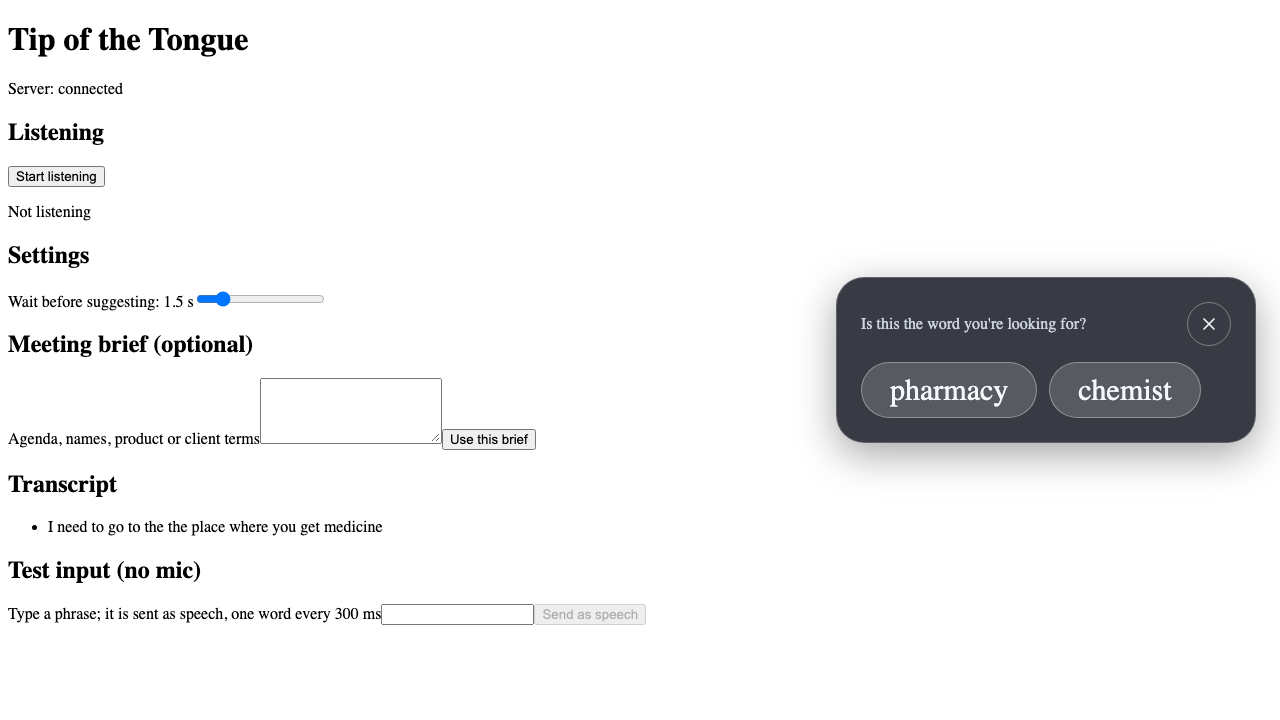
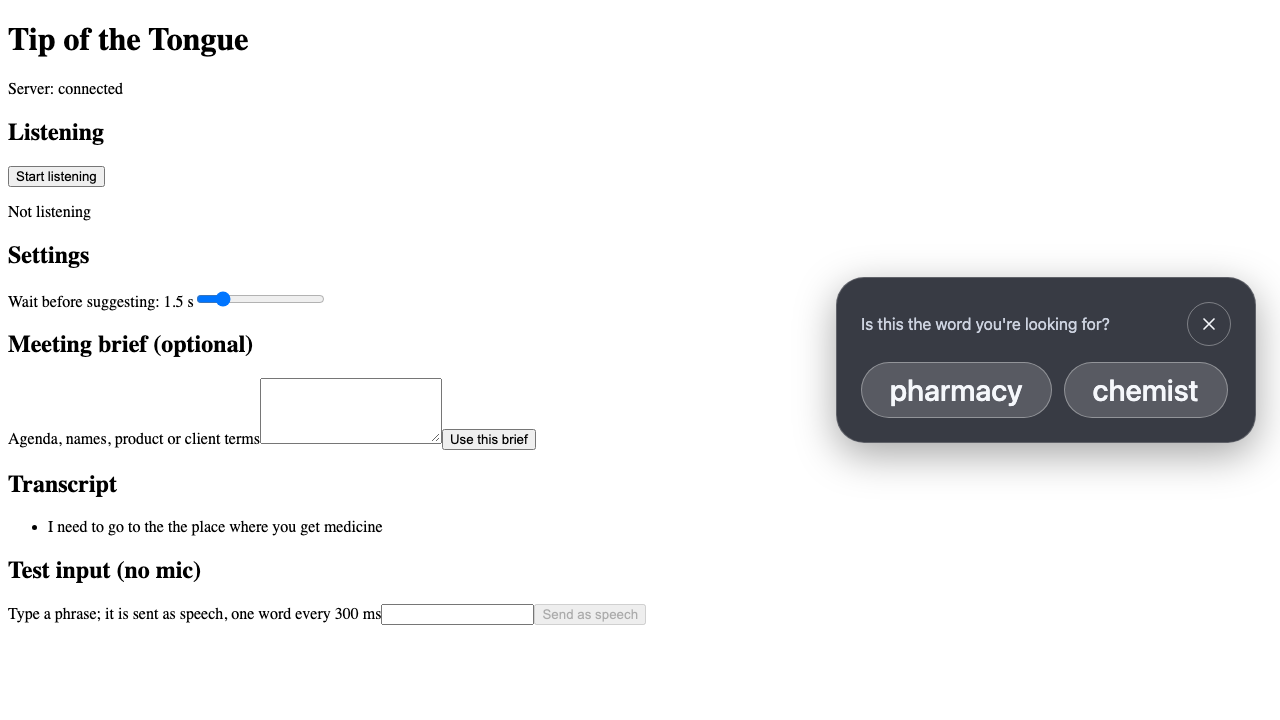
feat: guess.picked event for clicks, system sans font in the pop-up

Changed region(s): [[0.6875, 0.4889, 0.9688, 0.5806], [0.6562, 0.4278, 0.875, 0.4583]]

diff --git a/server/src/session.test.ts b/server/src/session.test.ts
@@ -94,6 +94,89 @@ describe('session pipeline', () => {
     session.close();
   });
 
+  describe('guess.picked', () => {
+    // Speaks the demo stall and waits for the offer.
+    async function offered() {
+      const ctx = setup();
+      ctx.say('I need to go to the the place where you get medicine');
+      await vi.advanceTimersByTimeAsync(2000);
+      const o = ctx.events.find((e) => e.type === 'guess.offered');
+      if (o?.type !== 'guess.offered') throw new Error('no offer');
+      return { ...ctx, id: o.id };
+    }
+    const accepted = (events: ServerEvent[]) => events.filter((e) => e.type === 'guess.accepted');
+
+    it('counts a click like a spoken acceptance', async () => {
+      const { session, events, id } = await offered();
+      await vi.advanceTimersByTimeAsync(400);
+      session.handle({ type: 'guess.picked', id, word: 'chemist' });
+      const [a] = accepted(events);
+      expect(a).toMatchObject({ type: 'guess.accepted', id, word: 'chemist' });
+      expect(a?.type === 'guess.accepted' && a.afterMs).toBeGreaterThanOrEqual(400);
+      // The offer is closed: nothing else follows for it.
+      await vi.advanceTimersByTimeAsync(20_000);
+      expect(events.map((e) => e.type)).not.toContain('guess.expired');
+      session.close();
+    });
+
+    it('matches the word the way speech does (case, plural) and reports the offered spelling', async () => {
+      const { session, events, id } = await offered();
+      session.handle({ type: 'guess.picked', id, word: ' Pharmacies ' });
+      expect(accepted(events)).toMatchObject([{ word: 'pharmacy' }]);
+      session.close();
+    });
+
+    it('ignores a stale id', async () => {
+      const { session, events } = await offered();
+      session.handle({ type: 'guess.picked', id: 'not-the-offer', word: 'pharmacy' });
+      expect(accepted(events)).toEqual([]);
+      session.close();
+    });
+
+    it('ignores a word that was not offered, and the offer stays open', async () => {
+      const { session, say, events, id } = await offered();
+      session.handle({ type: 'guess.picked', id, word: 'hospital' });
+      session.handle({ type: 'guess.picked', id, word: 'pharmacy chemist' });
+      expect(accepted(events)).toEqual([]);
+      say('pharmacy');
+      await vi.advanceTimersByTimeAsync(300);
+      expect(accepted(events)).toHaveLength(1);
+      session.close();
+    });
+
+    it('ignores a click after the offer expired', async () => {
+      const { session, events, id } = await offered();
+      await vi.advanceTimersByTimeAsync(11_000);
+      expect(events.map((e) => e.type)).toContain('guess.expired');
+      session.handle({ type: 'guess.picked', id, word: 'pharmacy' });
+      expect(accepted(events)).toEqual([]);
+      session.close();
+    });
+
+    it('ignores a click in the moment between the window ending and the next poll', async () => {
+      const { session, events, id } = await offered();
+      vi.setSystemTime(Date.now() + 10_050);
+      session.handle({ type: 'guess.picked', id, word: 'pharmacy' });
+      expect(accepted(events)).toEqual([]);
+      session.close();
+    });
+
+    it('accepts once: a second click does nothing', async () => {
+      const { session, events, id } = await offered();
+      session.handle({ type: 'guess.picked', id, word: 'pharmacy' });
+      session.handle({ type: 'guess.picked', id, word: 'chemist' });
+      expect(accepted(events)).toHaveLength(1);
+      session.close();
+    });
+
+    it('ignores a click when no offer is open', () => {
+      const { session, events } = setup();
+      session.handle({ type: 'guess.picked', id: 'x', word: 'pharmacy' });
+      expect(events).toEqual([]);
+      session.close();
+    });
+  });
+
   it('stays silent on fluent speech', async () => {
     const { session, say, events } = setup();
     say('we shipped the new release on Tuesday and the customers liked it.');

diff --git a/server/src/session.ts b/server/src/session.ts
@@ -6,6 +6,7 @@ import type { Profile } from './guess/profile.js';
 import type { GuessResult, Guesser } from './guess/types.js';
 import { decideOffer } from './gate/gate.js';
 import { checkAcceptance } from './accept/accept.js';
+import { normalizePhrase } from './gate/normalize.js';
 
 export interface SessionOptions {
   guess: Guesser;
@@ -77,8 +78,28 @@ export function createSession(send: (event: ServerEvent) => void, opts: SessionO
     } else {
       return;
     }
+    closeOffer();
+  }
+
+  function closeOffer() {
     offer = undefined;
     handledUpToMs = buffer.words().at(-1)?.endMs ?? handledUpToMs;
+  }
+
+  // The user clicked a word. Only the open offer, one of its own words, inside the accept
+  // window counts; anything else (stale id, unknown word, late click) is ignored.
+  function pick(id: string, word: string) {
+    if (!offer || offer.id !== id || now() - offer.offeredAtMs > opts.acceptWindowMs) return;
+    const key = normalizePhrase(word).join(' ');
+    const chosen = offer.candidates.find((c) => normalizePhrase(c.word).join(' ') === key);
+    if (!chosen) return;
+    send({
+      type: 'guess.accepted',
+      id,
+      word: chosen.word,
+      afterMs: now() - offer.offeredAtMs,
+    });
+    closeOffer();
   }
 
   function noteGuess(failed: boolean) {
@@ -204,6 +225,7 @@ export function createSession(send: (event: ServerEvent) => void, opts: SessionO
     handle(event: ClientEvent) {
       if (event.type === 'session.brief') brief = event.text.trim() || undefined;
       else if (event.type === 'session.settings') pauseMs = event.pauseMs;
+      else if (event.type === 'guess.picked') pick(event.id, event.word);
       else if (event.type === 'transcript.partial') buffer.applyPartial(event.words);
       else buffer.applyFinal(event.words);
       check();

diff --git a/web/src/offer/Offer.tsx b/web/src/offer/Offer.tsx
@@ -7,20 +7,28 @@ const ACCEPTED_SHOWN_MS = 1500;
 interface Props {
   offer: OfferState | null;
   onClear: () => void;
+  // The user clicked one of the words.
+  onPick: (id: string, word: string) => void;
 }
 
 // The live region stays mounted so screen readers announce the offer when it appears.
-// Picking a word here only changes what the user sees; the server still learns about
-// acceptance from the user saying the word.
-export function Offer({ offer, onClear }: Props) {
+export function Offer({ offer, onClear, onPick }: Props) {
   return (
     <aside aria-live="polite" aria-label="Word suggestions">
-      {offer && <Card key={offer.id} offer={offer} onClear={onClear} />}
+      {offer && <Card key={offer.id} offer={offer} onClear={onClear} onPick={onPick} />}
     </aside>
   );
 }
 
-function Card({ offer, onClear }: { offer: OfferState; onClear: () => void }) {
+function Card({
+  offer,
+  onClear,
+  onPick,
+}: {
+  offer: OfferState;
+  onClear: () => void;
+  onPick: Props['onPick'];
+}) {
   const [picked, setPicked] = useState<string>();
   const accepted = offer.acceptedWord ?? picked;
 
@@ -64,7 +72,14 @@ function Card({ offer, onClear }: { offer: OfferState; onClear: () => void }) {
       <ul className="offer-words">
         {offer.candidates.map((c) => (
           <li key={c.word}>
-            <button type="button" className="offer-word" onClick={() => setPicked(c.word)}>
+            <button
+              type="button"
+              className="offer-word"
+              onClick={() => {
+                setPicked(c.word);
+                onPick(offer.id, c.word);
+              }}
+            >
               {c.word}
             </button>
           </li>

diff --git a/server/src/events.test.ts b/server/src/events.test.ts
@@ -15,3 +15,16 @@ describe('session.settings', () => {
     );
   });
 });
+
+describe('guess.picked', () => {
+  const picked = (value: unknown) => ClientEventSchema.safeParse(value).success;
+
+  it('needs an id and a word of sensible size', () => {
+    expect(picked({ type: 'guess.picked', id: 'abc', word: 'pharmacy' })).toBe(true);
+    expect(picked({ type: 'guess.picked', id: 'abc', word: '' })).toBe(false);
+    expect(picked({ type: 'guess.picked', id: 'a'.repeat(65), word: 'x' })).toBe(false);
+    expect(picked({ type: 'guess.picked', id: 'abc', word: 'x'.repeat(101) })).toBe(false);
+    expect(picked({ type: 'guess.picked', id: 5, word: 'x' })).toBe(false);
+    expect(picked({ type: 'guess.picked', word: 'x' })).toBe(false);
+  });
+});

diff --git a/server/src/events.ts b/server/src/events.ts
@@ -26,6 +26,12 @@ export const ClientEventSchema = z.discriminatedUnion('type', [
   }),
   // Optional meeting brief: agenda, names, terms. Plain text.
   z.object({ type: z.literal('session.brief'), text: z.string().max(5000) }),
+  // The user clicked a suggested word. Counts like saying it.
+  z.object({
+    type: z.literal('guess.picked'),
+    id: z.string().max(64),
+    word: z.string().min(1).max(100),
+  }),
   // How long the user pauses before we look for a word (slower speakers need longer), in ms.
   z.object({ type: z.literal('session.settings'), pauseMs: z.number().min(800).max(5000) }),
 ]);

diff --git a/server/src/hardening.test.ts b/server/src/hardening.test.ts
@@ -100,6 +100,9 @@ describe('bad input never crashes the server', () => {
       '{"type":"transcript.final","words":[{"text":"a","startMs":1e999,"endMs":1}]}',
       '{"type":"transcript.final","words":[{"text":"","startMs":0,"endMs":1}]}',
       '{"type":"session.brief","text":5}',
+      '{"type":"guess.picked"}',
+      '{"type":"guess.picked","id":1,"word":[]}',
+      '{"type":"guess.picked","id":"nope","word":"pharmacy"}',
       '{"__proto__":{"polluted":true},"type":"session.brief","text":"x"}',
       Buffer.from([0xff, 0xfe, 0x00]),
     ];

diff --git a/web/src/offer/offer.css b/web/src/offer/offer.css
@@ -18,6 +18,13 @@
     'words words';
   gap: 16px 12px;
   align-items: start;
+  font-family:
+    system-ui,
+    -apple-system,
+    'Segoe UI',
+    Roboto,
+    sans-serif;
+  font-variant-numeric: tabular-nums;
   color: var(--ink);
   background: rgb(18 22 32 / 0.84);
   border: 1px solid rgb(255 255 255 / 0.2);
@@ -73,6 +80,7 @@
   padding: 8px 28px;
   font: inherit;
   font-size: 1.875rem; /* 30px */
+  font-weight: 500;
   line-height: 1.2;
   color: var(--ink);
   background: rgb(255 255 255 / 0.16);

diff --git a/web/src/App.tsx b/web/src/App.tsx
@@ -143,7 +143,11 @@ export function App() {
         {guesserDown ? 'Word suggestions are unavailable right now; listening continues.' : ''}
       </p>
 
-      <Offer offer={offer} onClear={clearOffer} />
+      <Offer
+        offer={offer}
+        onClear={clearOffer}
+        onPick={(id, word) => send({ type: 'guess.picked', id, word })}
+      />
 
       <section aria-labelledby="settings-h">
         <h2 id="settings-h">Settings</h2>

diff --git a/docs/ARCHITECTURE.md b/docs/ARCHITECTURE.md
@@ -21,6 +21,7 @@ Defined once in `server/src/events.ts`. Times are epoch ms.
 | `transcript.partial` / `transcript.final` | web → server | words with start/end ms (browser STT)                  |
 | `session.brief`                           | web → server | optional meeting brief text                            |
 | `session.settings`                        | web → server | pause wait in ms (800–5000) for this connection        |
+| `guess.picked`                            | web → server | the user clicked an offered word (offer id, word)      |
 | `stuck.detected`                          | server → web | reason (pause, filler, describing), context            |
 | `guess.offered`                           | server → web | offer id, up to 3 candidates with confidence, latency  |
 | `guess.withdrawn`                         | server → web | offer id, reason (self-recovered, timeout)             |
@@ -40,7 +41,7 @@ Defined once in `server/src/events.ts`. Times are epoch ms.
 - **Guesser**: sends Claude the conversation so far (about the last 60 words), the phrase where the user got stuck, the meeting brief and the profile's personal words. It returns `{candidates: [{word, confidence}], abstain}`, parsed leniently (code fences and surrounding prose are tolerated) and validated with zod: confidence is clamped to 0..1, duplicates are removed, at most 3 candidates are kept. The reply is streamed and read only until the JSON object closes, then the rest is cancelled, so the pop-up does not wait for the end of the message. It abstains, never throws, on a timeout (`GUESS_TIMEOUT_MS`, 2500), an API error, a refusal or unparseable JSON. Provider errors and timeouts (not the model's own abstains) set `error: true` on the result; after two in a row the session sends `guesser.status` with `ok: false`, and `ok: true` on the next success. A deterministic mock runs when there is no key.
 - **Gate** (pure): checks in this order. (1) The guesser abstained: silent. (2) The top word was already said since the stuck point: silent (`self-recovered`). (3) The last offer was less than the cooldown ago: silent. (4) Candidates already said or offered within the cooldown are dropped. (5) The best remaining word must reach `GATE_MIN_CONFIDENCE` (0.6) or the gate stays silent. Otherwise it offers up to 3 words; after the top one, only words at half the threshold or better. Spoken words are compared after lowercasing and stripping punctuation, possessives and simple plurals, so "chemist's" matches "chemist"; multi-word candidates match a run of spoken words.
 - **AcceptanceTracker** (pure): only words that start after the offer count. If the user says any offered word (or phrase) within the acceptance window, the offer is accepted, with the time it took; if several are said, the earliest wins. With no match, the offer is pending until the window has passed, then it expires.
-- **Session** (`server/src/session.ts`): one per WebSocket connection. It feeds transcript events into a `TranscriptBuffer` and polls every 200 ms, because a pause is silence and no event arrives when one passes. One stall triggers at most one guess: words already reacted to are not re-checked. While an offer is open, each check asks the AcceptanceTracker. A spoken candidate sends `guess.accepted`. Six or more new words without a candidate means the user has moved on, so it sends `guess.withdrawn` (`self-recovered`). The window running out (10 s) sends `guess.expired`. After an offer, the gate's cooldown is 8 s.
+- **Session** (`server/src/session.ts`): one per WebSocket connection. It feeds transcript events into a `TranscriptBuffer` and polls every 200 ms, because a pause is silence and no event arrives when one passes. One stall triggers at most one guess: words already reacted to are not re-checked. While an offer is open, each check asks the AcceptanceTracker. A spoken candidate, or a click on one (`guess.picked`, accepted only for the open offer, one of its words, inside the accept window), sends `guess.accepted`. Six or more new words without a candidate means the user has moved on, so it sends `guess.withdrawn` (`self-recovered`). The window running out (10 s) sends `guess.expired`. After an offer, the gate's cooldown is 8 s.
   - Speculative guessing: after `SPECULATE_AFTER_MS` (300) of silence the early signal starts the guess in the background. If the user speaks again first, the result is dropped and the call aborted. When the stall is confirmed, a result already in hand is gated and offered at once; one still in flight is offered the moment it lands. The gate still uses the words said since the stall marker, so self-recovery suppresses it. The cost is one extra Claude call per pause that does not become a stall; the server logs `speculated`/`discarded` counts and `stallToOfferMs`. The session polls every 100 ms. `SPECULATE_AFTER_MS=0` turns it off.
   - The gate is given the words said after `sinceMs` (the stall marker), not after the final silence, so a word the user has already said is never offered back.
 
